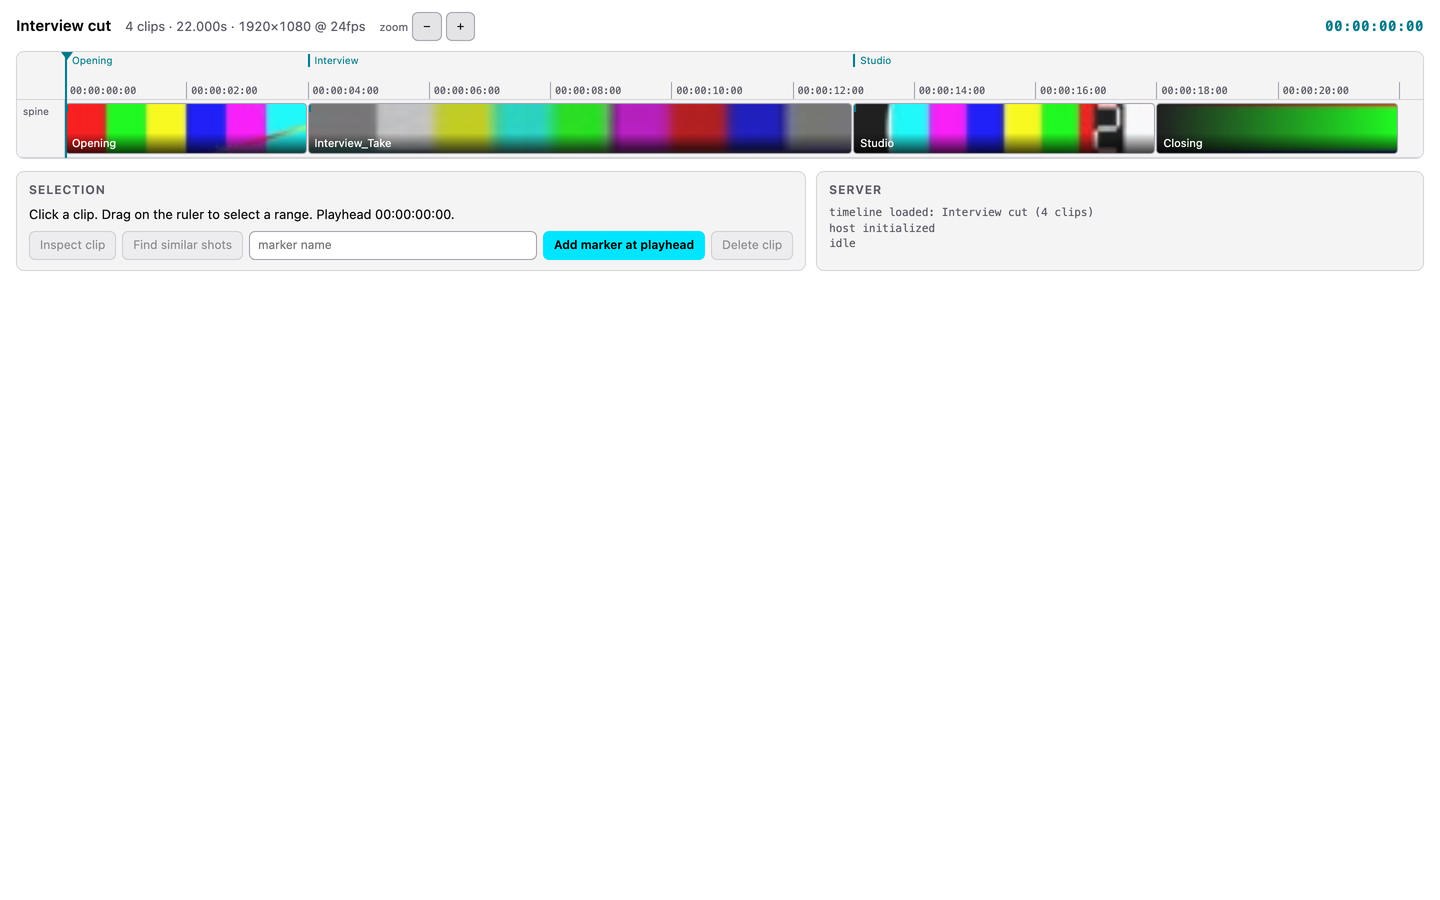
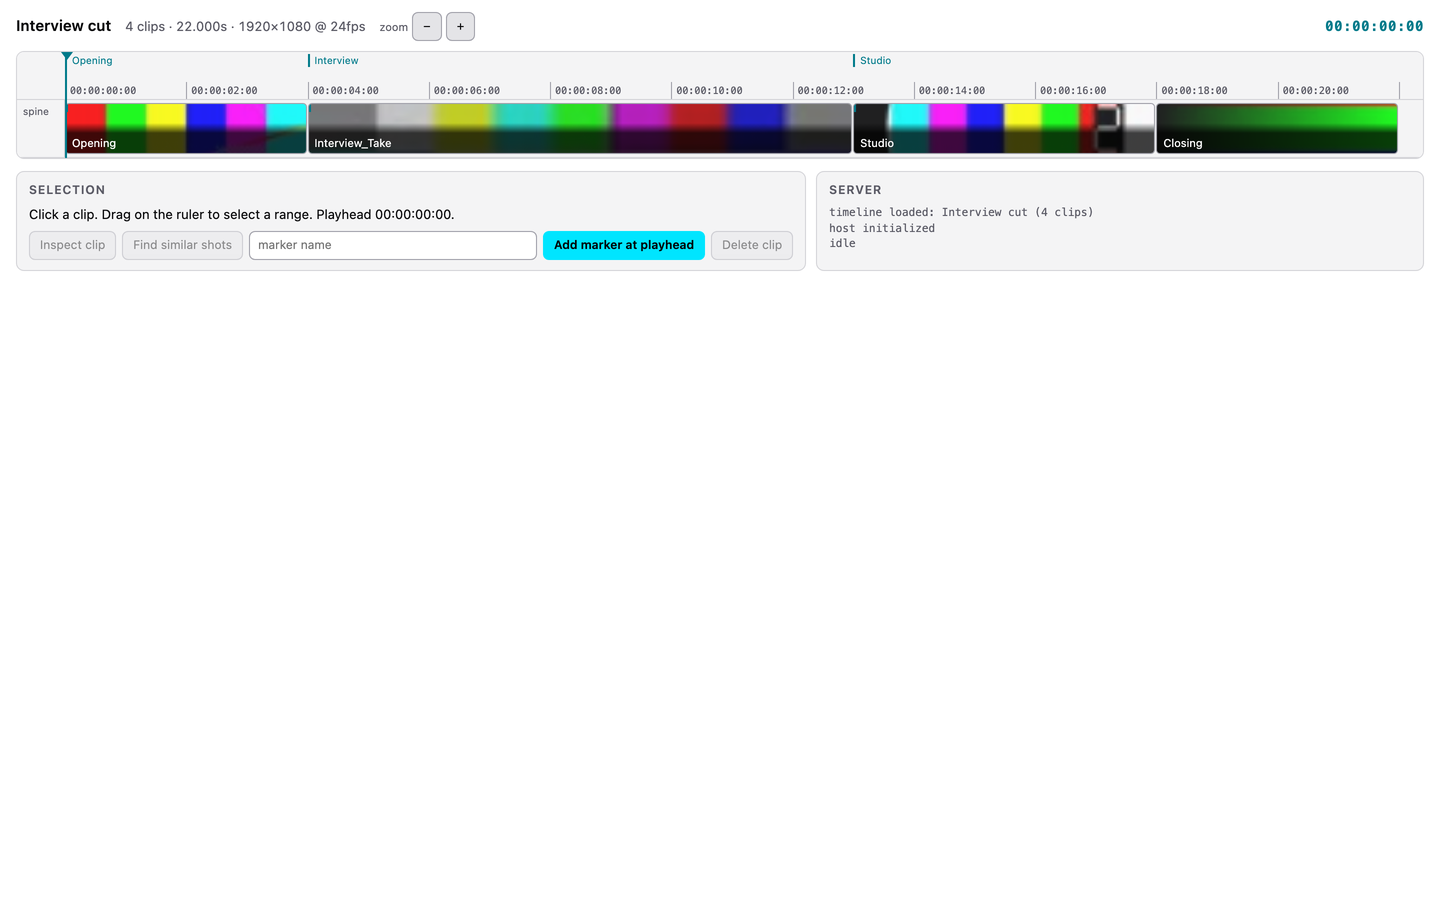
docs: round-3 CHANGELOG and re-rendered evidence shots
The app shots (new scrim), the card at 1280 and 390 (four calls), the
GIF's first frame (1920 px), the MP4's first decoded frame and its
poster. The CHANGELOG records the marker note, the scrim, the gym-session
hero, the refused generation (nothing spent), the image-text guard, the
small logo and the new tests.

Claude-Session: https://claude.ai/code/session_01MajkfwtukrgiMJavSPADaQ

Changed region(s): [[0.0312, 0.1244, 0.9688, 0.1867]]

diff --git a/CHANGELOG.md b/CHANGELOG.md
@@ -53,10 +53,30 @@ listed under Changed, so a cut in progress can tell which apply.
 - **The legacy `preview://` page**: clip fills read at 3:1 against their
   lane with a thin accent strip on top, and a name that does not fit its
   block is hidden (pure CSS; the page has no script) instead of cut to "O.".
+- **A generated clip's marker is named for its prompt** ("generated: <prompt>");
+  the provider and model move to the marker's note ("generated by
+  gemini/omni-1.2-flash"), so the file keeps its provenance and the ruler, and
+  every screenshot of it, carries no model id to go stale.
+- **Every clip label over a thumbnail reads at 4.5:1 or better.** The scrim
+  is full shade (75% black) before the text starts (it faded across the text,
+  so "Studio" read at 2.7:1), and role text over a thumbnail takes the label
+  colour.
+- **The README hero is cut from the author's own gym session** (the SLVLING
+  form pass, where he is the only person in frame): "Session cut" with Bench,
+  Squat (the long set), Press and Finish, its audio a test tone so the rests
+  are real silence; four silent 360x640 proxies (0.5 MB) live in
+  `demo/hero/footage/`. The B-roll is one real Gemini Omni Flash generation
+  bought once (`build.py --generate`, prompt only, capped at US$0.70, never
+  bought twice) and replayed on every build; this recording's attempt was
+  refused by the API before generating (HTTP 403), so nothing was spent and
+  the tile is a stand-in that says MOCKED in its own pixels and in the footer.
+  The GIF is 1920 px wide and under 5 MB, and the first decoded frame of
+  both the GIF and the MP4 is the finished cut (the MP4 also carries it as its
+  attached poster). No price, model id, frame size or version is printed in
+  the hero or the card: `scripts/image_text.py` makes both builders refuse.
 - **The README hero opens on the finished cut.** The GIF opens on it and then
-  plays the story; the MP4 plays the story in order and carries the finished
-  frame as its poster (an attached picture), so it never jumps finished,
-  empty, finished. The GIF's first frame had been fixed by hand in a51c13b
+  plays the story; the MP4 does too, and carries the finished frame as its
+  poster (an attached picture). The GIF's first frame had been fixed by hand in a51c13b
   and a rebuild would have lost it; the generator does it now. The demo was
   recomposed: a taller window so the SERVER panel ends inside it, the
   "re-rendered from" caption inside that panel, short source names so every
@@ -76,6 +96,12 @@ listed under Changed, so a cut in progress can tell which apply.
   images and links are pinned to the release tag before the build, and the
   BUILT description is checked for any relative path and every image URL
   for a 200 before upload. Through 0.30.0 every image on PyPI was broken.
+- `scripts/image_text.py`: the patterns no image may carry (a price, a model
+  or provider id, a frame size, a version, a star count), used by the hero
+  recorder and the card script, which refuse on a match.
+- `demo/hero/footage.py` and `demo/hero/footage/`: the hero's silent
+  footage proxies, and `logo-small.svg` / `logo-small-400.png`, the no-glyph
+  mark for 96 px and under (the README header uses it).
 - `scripts/capture-claude-desktop.md`: how to capture the app in Claude
   Desktop by window id, and what to record if it does not draw.
 - README: "Where the timeline draws", a dated table of which hosts draw the
@@ -110,6 +136,13 @@ listed under Changed, so a cut in progress can tell which apply.
 - The badge colour must be past shields.io's dark-text line (white on
   `#00E5FF` read at 1.8:1), the version badge must be dynamic, block fills
   must read at 3:1, and the PyPI check refuses an SVG from the repository.
+- `test_hero_assets.py`: the MP4's first DECODED frame (not its poster) and
+  the GIF's first frame match the finished still; a story frame is seen as
+  different; the GIF is at least 1440 wide and under 5 MB.
+- The label scrim: composited over white, yellow, cyan and black frames at
+  4.5:1, full before the text starts, and measured on a rendered clip over a
+  pure white thumbnail; the stale-image patterns and both builders using them;
+  the small logo at 96 px and under.
 - Every new guard has a test that plants the failure and sees it go red.
 
 ## [0.30.0] - 2026-11-02
